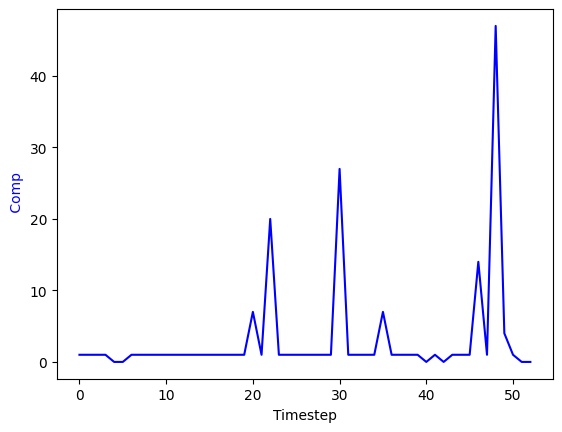
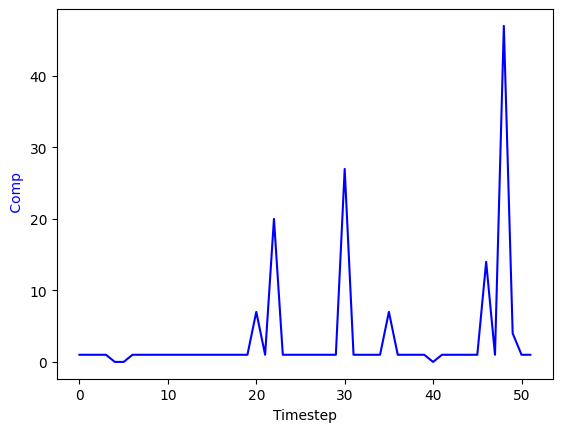
fixed error in result formatting

diff --git a/DataVisualization/main.py b/DataVisualization/main.py
@@ -51,7 +51,7 @@ unaryResults.shape=(0, 6)
 binaryResults : np.ndarray = np.array([[]])
 binaryResults.shape=(0, 6)
 
-shortModel = "AC"
+shortModel = "SchemEx"
 first : int = 2013
 last : int= 2016
 for year in range(first, last +1):
@@ -84,7 +84,7 @@ for metric in range(6):
         ax2.plot(xval, referenceValues, linestyle = 'dotted', color = 'orange')        
         ax2.set_ylabel(unaryHeader[3], color='orange')
     plt.tight_layout()
[2 lines of base64/hex data omitted]
     plt.show()
 
 
@@ -100,6 +100,6 @@ for metric in range(6):
     plt.xlabel('Timestep')
     plt.ylabel(binaryHeader[metric])
     plt.tight_layout()
[2 lines of base64/hex data omitted]
     plt.show()
 
